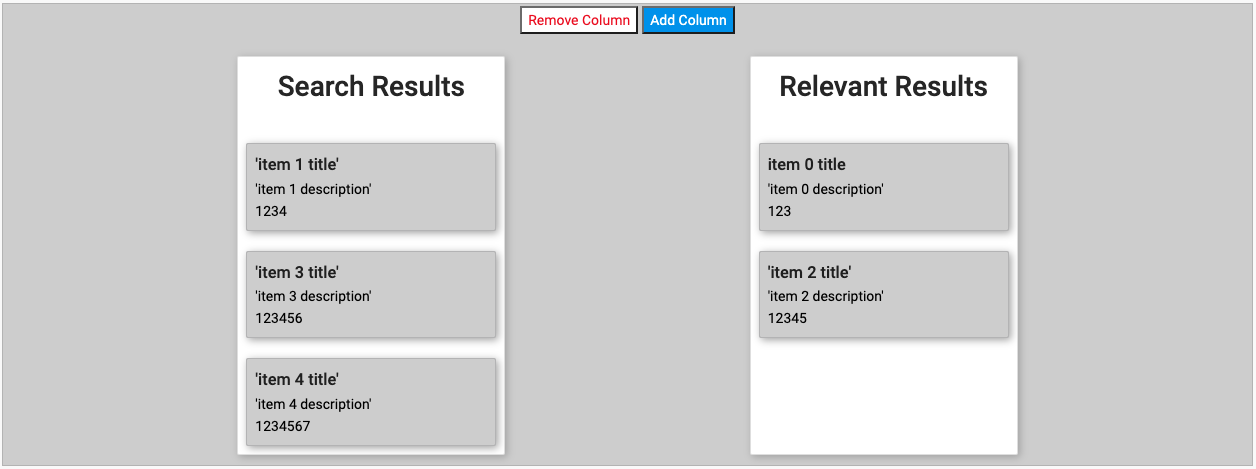
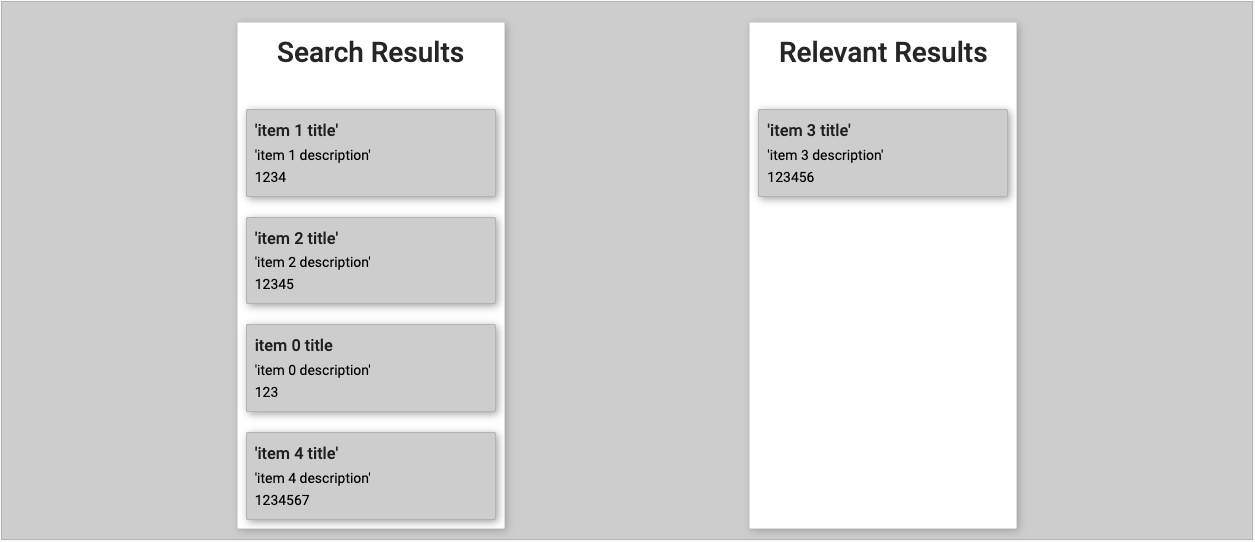
added support for pre-annotated data

diff --git a/src/components/Ranker/createData.ts b/src/components/Ranker/createData.ts
@@ -14,6 +14,7 @@ export interface InputItem {
   id: string;
   title: string;
   body: string;
+  location: string;
 }
 
 //represents the entire board of columns and items
@@ -25,24 +26,40 @@ export interface BoardData {
 
 /**
  * assumed input data structure:
- * id: assigned programatically when component renders
+ * id: string
  * title: string
  * body: string
+ * location: string
  */
 
+//TODO: we need to add the right item ids to the right column depending on their location property
 export const getData = (input: InputItem[], mode: string) => {
   /* loop through input data and create query data object used for ranker component */
-  const itemIds = input.map((item: InputItem) => item.id);
 
   //convert input array into object of items so that ids are easily findable
   const itemsObject: { [id: string]: InputItem } = {};
+  //separate items into their initialized columns
+  const column1Items: Array<string> = [];
+  const column2Items: Array<string> = [];
+  const column3Items: Array<string> = [];
 
   input.forEach(item => {
     itemsObject[item.id] = {
       id: item.id,
       title: item.title,
       body: item.body,
+      location: item.location ? item.location : 'column-1',
     };
+
+    //determine which column to initialize item into
+    if (item.location === 'column-2') {
+      column2Items.push(item.id);
+    } else if (item.location === 'column-3') {
+      column3Items.push(item.id);
+    } else {
+      //default send to first column
+      column1Items.push(item.id);
+    }
   });
 
   /* The DragDropBoard component relies on the data looking like this */
@@ -52,7 +69,7 @@ export const getData = (input: InputItem[], mode: string) => {
       'column-1': {
         id: 'column-1',
         title: 'Search Results',
-        itemIds,
+        itemIds: column1Items,
       },
     },
     columnOrder: ['column-1'],
@@ -63,23 +80,22 @@ export const getData = (input: InputItem[], mode: string) => {
     queryData.columns['column-2'] = {
       id: 'column-2',
       title: 'Relevant Results',
-      itemIds: [],
+      itemIds: column2Items,
     };
     queryData.columnOrder.push('column-2');
   } else if (mode === 'select-2') {
     queryData.columns['column-2'] = {
       id: 'column-2',
       title: 'Relevant Results',
-      itemIds: [],
+      itemIds: column2Items,
     };
     queryData.columns['column-3'] = {
       id: 'column-3',
       title: 'Relevant Results',
-      itemIds: [],
+      itemIds: column3Items,
     };
     queryData.columnOrder.push('column-2');
     queryData.columnOrder.push('column-3');
   }
-
   return queryData;
 };
